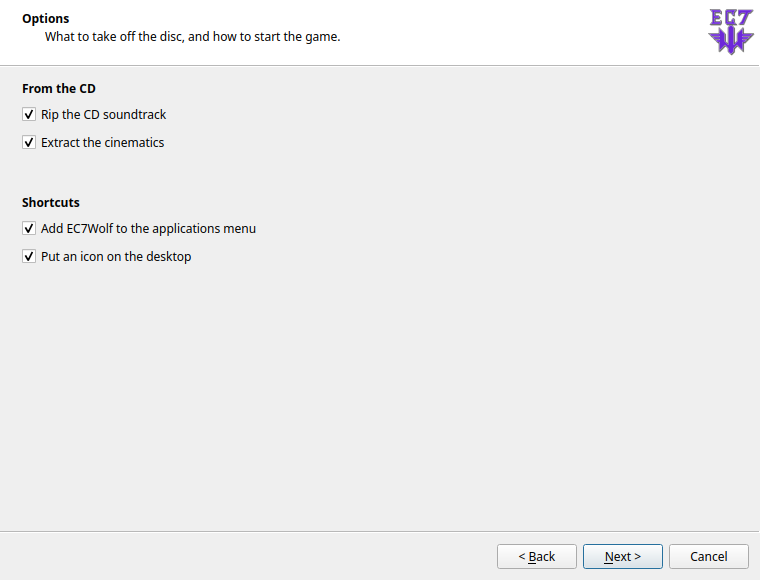
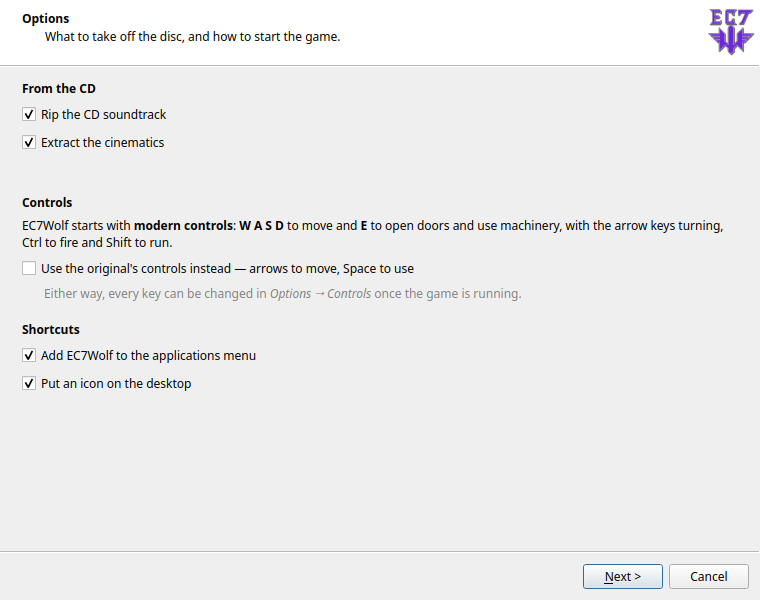
Say the controls are modern, offer the original's, and stop the console flashing
Two things asked for after using it.

FFmpeg was opening a console window per CD track -- eight black boxes flashing
across the screen in front of a wizard trying to look composed. On Windows
every subprocess a windowed program starts gets its own console unless told
otherwise, and the installer starts a great many: FFmpeg, CMake, the compiler,
meson, cscript, and cmd.exe for Visual Studio's environment. CREATE_NO_WINDOW
is the whole fix; ec7install.proc collects it, because it has to be passed at
every call site to be worth anything and one missed call is one flash. All
sixteen now pass it. proc.on_windows() deliberately asks the real platform
rather than identity.is_windows(), which the gates force to "windows" while
running on Linux, where creationflags does not exist.

And the controls. EC7Wolf defaults to WASD and E, which is what a shooter does
now and is not what Corridor 7 did in 1994 -- so someone coming back to it
presses the up arrow, nothing happens, and concludes the port is broken. The
Options page now states the scheme it is about to set up and offers the
original's as a tick-box; the summary states it again before anything is
written, and the finish page states it once more before they play. --classic-
controls does the same from a terminal.

Choosing it writes a config with those bindings into the staging tree, so that
carry_over -- which brings an existing config forward on a reinstall -- leaves
[…]

diff --git a/installer/ec7install_gui/pages.py b/installer/ec7install_gui/pages.py
@@ -52,6 +52,7 @@ class State:
         self.destination = install.default_destination()
         self.with_music = True
         self.with_video = True
+        self.classic_controls = False
         self.menu_shortcut = True
         self.desktop_shortcut = True
         self.jobs = os.cpu_count() or 2
@@ -811,6 +812,24 @@ class OptionsPage(QWizardPage):
         layout.addWidget(self.contentNote)
 
         layout.addSpacing(12)
+        layout.addWidget(QLabel("<b>Controls</b>"))
+        # Said plainly and before the fact, because the surprise is silent:
+        # someone who played this in 1994 presses the up arrow, nothing moves,
+        # and concludes the port is broken rather than that the defaults
+        # changed underneath them in the intervening thirty years.
+        layout.addWidget(body(
+            "EC7Wolf starts with <b>modern controls</b>: <b>W A S D</b> to "
+            "move and <b>E</b> to open doors and use machinery, with the "
+            "arrow keys turning, Ctrl to fire and Shift to run."))
+        self.classic = QCheckBox(
+            "Use the original's controls instead — arrows to move, Space to use")
+        layout.addWidget(self.classic)
+        self.controlsNote = body("")
+        self.controlsNote.setContentsMargins(22, 0, 0, 0)
+        layout.addWidget(self.controlsNote)
+        self.classic.toggled.connect(self._changed)
+
+        layout.addSpacing(12)
         layout.addWidget(QLabel("<b>Shortcuts</b>"))
         self.menu = QCheckBox("Add EC7Wolf to the applications menu")
         self.desktop = QCheckBox("Put an icon on the desktop")
@@ -831,10 +850,11 @@ class OptionsPage(QWizardPage):
         # state read half way through this would see values it just clobbered.
         wanted = (has_music and self.state.with_music,
                   has_video and self.state.with_video,
+                  self.state.classic_controls,
                   self.state.menu_shortcut, self.state.desktop_shortcut)
 
-        for box, value in zip((self.music, self.video, self.menu, self.desktop),
-                              wanted):
+        for box, value in zip((self.music, self.video, self.classic,
+                               self.menu, self.desktop), wanted):
             box.blockSignals(True)
             box.setChecked(value)
             box.blockSignals(False)
@@ -857,6 +877,10 @@ class OptionsPage(QWizardPage):
         self._changed()
 
     def _changed(self, *_) -> None:
+        self.state.classic_controls = self.classic.isChecked()
+        self.controlsNote.setText(
+            "<span style='color:gray;'>Either way, every key can be changed in "
+            "<i>Options &#8594; Controls</i> once the game is running.</span>")
         self.state.with_music = self.music.isChecked() and self.music.isEnabled()
         self.state.with_video = self.video.isChecked() and self.video.isEnabled()
         self.state.menu_shortcut = self.menu.isChecked()
@@ -941,6 +965,9 @@ class SummaryPage(QWizardPage):
         shortcuts = [name for name, on in
                      (("applications menu", state.menu_shortcut),
                       ("desktop", state.desktop_shortcut)) if on]
+        row("Controls", "the original's &#8212; arrows to move, Space to use"
+                        if state.classic_controls else
+                        "modern &#8212; W A S D to move, E to use")
         row("Shortcuts", ", ".join(shortcuts) if shortcuts else "none")
         row("Log", str(state.log_path) if state.log_path else "&#8211;")
 
@@ -1131,6 +1158,14 @@ class FinishPage(QWizardPage):
                          "folder. Configuration and saved games stay inside "
                          "the install, so nothing else on the system is "
                          "touched.</p>")
+            parts.append(
+                "<p><b>Controls:</b> " +
+                ("the original's &#8212; arrow keys move, <b>Space</b> opens "
+                 "doors and uses machinery."
+                 if state.classic_controls else
+                 "<b>W A S D</b> to move and <b>E</b> to open doors and use "
+                 "machinery. The arrow keys turn.") +
+                " Change any of them in <i>Options &#8594; Controls</i>.</p>")
             parts.append(
                 f"<p style='color:{colour['dim']};'>To remove it later, run "
                 f"<tt>uninstall.sh</tt> in that folder; it takes the menu "

diff --git a/installer/ec7install/controls.py b/installer/ec7install/controls.py
@@ -1,0 +1,96 @@
+"""Which keys the game starts with.
+
+EC7Wolf's defaults are the modern ones -- WASD to move, E to use -- which is
+what almost everyone expects from a first-person shooter now and is not what
+Corridor 7 shipped with in 1994. Someone coming back to the game after thirty
+years reaches for the arrow keys and the space bar, finds neither works, and
+concludes something is broken.
+
+So the installer says which scheme it is about to set up, and offers the other
+one. This writes a configuration file with the original's bindings; the engine
+fills in everything else from its own defaults the first time it runs, because
+a setting that is absent from the file is simply created.
+
+The values are SDL 1.2 keysyms, which is what the engine's configuration
+format stores -- read out of a config the engine itself wrote, not looked up in
+a table somewhere and hoped. tools/test_installer_controls.sh checks that the
+engine still agrees.
+"""
+
+from __future__ import annotations
+
+from pathlib import Path
+
+CONFIG_NAME = "ec7wolf.cfg"
+
+# What the engine does if nobody says otherwise.
+MODERN = {
+    "Keyboard_Forward": (119, "W"),
+    "Keyboard_Backward": (115, "S"),
+    "Keyboard_Strafe_Left": (97, "A"),
+    "Keyboard_Strafe_Right": (100, "D"),
+    "Keyboard_Turn_Left": (276, "Left arrow"),
+    "Keyboard_Turn_Right": (275, "Right arrow"),
+    "Keyboard_Use": (101, "E"),
+    "Keyboard_Attack": (306, "Ctrl"),
+    "Keyboard_Strafe": (308, "Alt"),
+    "Keyboard_Run": (304, "Shift"),
+}
+
+# What Corridor 7 shipped with. Turn, attack, strafe and run are already these
+# values; only movement and use actually move.
+CLASSIC = {
+    "Keyboard_Forward": (273, "Up arrow"),
+    "Keyboard_Backward": (274, "Down arrow"),
+    "Keyboard_Turn_Left": (276, "Left arrow"),
+    "Keyboard_Turn_Right": (275, "Right arrow"),
+    "Keyboard_Use": (32, "Space"),
+    "Keyboard_Attack": (306, "Ctrl"),
+    "Keyboard_Strafe": (308, "Alt"),
+    "Keyboard_Run": (304, "Shift"),
+    # A and D are left on strafe. The original had no key for it -- you held
+    # Alt and turned -- but adding one takes nothing away, and removing a
+    # binding that conflicts with nothing would only make the scheme worse.
+    "Keyboard_Strafe_Left": (97, "A"),
+    "Keyboard_Strafe_Right": (100, "D"),
+}
+
+
+def describe(scheme: dict) -> str:
+    """One line per binding, for a page or a terminal."""
+    order = ("Keyboard_Forward", "Keyboard_Backward", "Keyboard_Turn_Left",
+             "Keyboard_Turn_Right", "Keyboard_Strafe_Left",
+             "Keyboard_Strafe_Right", "Keyboard_Use", "Keyboard_Attack",
+             "Keyboard_Run", "Keyboard_Strafe")
+    pretty = {"Keyboard_Forward": "Move forward",
+              "Keyboard_Backward": "Move back",
+              "Keyboard_Turn_Left": "Turn left",
+              "Keyboard_Turn_Right": "Turn right",
+              "Keyboard_Strafe_Left": "Sidestep left",
+              "Keyboard_Strafe_Right": "Sidestep right",
+              "Keyboard_Use": "Open / use",
+              "Keyboard_Attack": "Fire",
+              "Keyboard_Run": "Run",
+              "Keyboard_Strafe": "Sidestep (held)"}
+    return "\n".join(f"{pretty[key]}: {scheme[key][1]}"
+                     for key in order if key in scheme)
+
+
+def write_config(destination: Path, scheme: dict = CLASSIC) -> Path:
+    """Write a configuration holding just these bindings.
+
+    Everything else is left out on purpose. The engine creates any setting the
+    file does not have, so a short file means "these keys, and your usual
+    defaults for the rest" -- and it stays correct when the engine gains a
+    setting this installer has never heard of.
+    """
+    path = Path(destination) / CONFIG_NAME
+    lines = [
+        "// Written by the EC7Wolf installer: the original's control scheme.",
+        "// Everything not listed here uses the engine's own default, and any",
+        "// of it can be changed in Options -> Controls.",
+        "",
+    ]
+    lines += [f"{key} = {value};" for key, (value, _name) in sorted(scheme.items())]
+    path.write_text("\n".join(lines) + "\n")
+    return path

diff --git a/installer/ec7install/shortcuts.py b/installer/ec7install/shortcuts.py
@@ -14,6 +14,7 @@ import subprocess
 from pathlib import Path
 
 from . import windows
+from . import proc
 from .identity import (APP_COMMENT, APP_ID, APP_NAME, ENGINE_BINARY,
                        is_windows)
 from .progress import Reporter
@@ -158,7 +159,7 @@ def install_icon(repo_root: Path, reporter: Reporter) -> tuple[str, list[Path]]:
     # harmless where it is not needed and invisible where it is.
     if shutil.which("gtk-update-icon-cache"):
         subprocess.run(["gtk-update-icon-cache", "-q", "-t", "-f", str(icons)],
-                       capture_output=True)
+                       capture_output=True, **proc.quiet())
     return (APP_ID, written)
 
 
@@ -189,7 +190,7 @@ def _create_linux(destination: Path, launcher: Path, repo_root: Path,
         reporter.detail(f"menu entry -> {path}")
         if shutil.which("update-desktop-database"):
             subprocess.run(["update-desktop-database", str(applications)],
-                           capture_output=True)
+                           capture_output=True, **proc.quiet())
 
     if desktop:
         desktop_dir = _desktop_directory()
@@ -204,7 +205,7 @@ def _create_linux(destination: Path, launcher: Path, repo_root: Path,
                 if shutil.which("gio"):
                     subprocess.run(
                         ["gio", "set", str(path), "metadata::trusted", "true"],
-                        capture_output=True, timeout=10)
+                        capture_output=True, timeout=10, **proc.quiet())
             except Exception:
                 pass
             created.append(path)
@@ -220,7 +221,8 @@ def _desktop_directory() -> Path | None:
     if shutil.which("xdg-user-dir"):
         try:
             out = subprocess.run(["xdg-user-dir", "DESKTOP"],
-                                 capture_output=True, text=True, timeout=10)
+                                 capture_output=True, text=True, timeout=10,
+                                 **proc.quiet())
             candidate = Path(out.stdout.strip())
             # xdg-user-dir answers with $HOME when it has no Desktop configured,
             # and scattering a .desktop file into the home directory is not what

diff --git a/installer/ec7install/plan.py b/installer/ec7install/plan.py
@@ -11,7 +11,7 @@ from __future__ import annotations
 import shutil
 from pathlib import Path
 
-from . import audio, build, install, shortcuts, verify, windows
+from . import audio, build, controls, install, shortcuts, verify, windows
 from . import source as source_code
 from .progress import Cancelled, Reporter
 
@@ -60,6 +60,7 @@ class InstallPlan:
     def __init__(self, repo_root: Path, source, destination: Path,
                  with_music: bool = True, with_video: bool = True,
                  menu_shortcut: bool = True, desktop_shortcut: bool = True,
+                 classic_controls: bool = False,
                  build_dir: Path | None = None, engine: build.Engine | None = None,
                  jobs: int | None = None):
         self.repo_root = Path(repo_root)
@@ -69,6 +70,7 @@ class InstallPlan:
         self.with_video = with_video
         self.menu_shortcut = menu_shortcut
         self.desktop_shortcut = desktop_shortcut
+        self.classic_controls = classic_controls
         self.build_dir = Path(build_dir) if build_dir else \
             self.destination.parent / ".ec7wolf-build"
         # Encoded music, kept only while it is worth keeping: a failed or
@@ -216,6 +218,17 @@ class InstallPlan:
                 (staging.path / engine.executable.name).chmod(0o755)
             launcher_name = install.write_launcher(staging.path).name
             staging.note(launcher_name)
+
+            # Written into the staging tree rather than the finished install,
+            # so that Staging.carry_over -- which brings an existing config
+            # forward on a reinstall -- leaves it alone. Someone who has just
+            # asked for the original's controls means it more than their old
+            # file does.
+            if self.classic_controls:
+                controls.write_config(staging.path, controls.CLASSIC)
+                staging.note(controls.CONFIG_NAME)
+                reporter.detail("controls: the original's scheme "
+                                "(arrows, Space to use)")
             done += WEIGHTS["assemble"]
             reporter.progress(done / total)
 

diff --git a/installer/ec7install_gui/wizard.py b/installer/ec7install_gui/wizard.py
@@ -173,6 +173,7 @@ def unattended(repo_root: Path, arguments) -> int:
             with_video=not arguments.no_video,
             menu_shortcut=not arguments.no_shortcuts,
             desktop_shortcut=not arguments.no_shortcuts,
+            classic_controls=arguments.classic_controls,
             engine=engine)
         work.run(reporter)
         return 0
@@ -234,6 +235,9 @@ def main(argv: list[str] | None = None) -> int:
     parser.add_argument("--no-music", action="store_true")
     parser.add_argument("--no-video", action="store_true")
     parser.add_argument("--no-shortcuts", action="store_true")
+    parser.add_argument("--classic-controls", action="store_true",
+                        help="set up the original's controls rather than the "
+                             "modern default")
 
     # /S is what a Windows installer is expected to answer to, and a deployment
     # tool driving EC7Wolf-Setup.exe will try it before anything else.

diff --git a/installer/ec7install/install.py b/installer/ec7install/install.py
@@ -16,6 +16,7 @@ import subprocess
 import time
 from pathlib import Path
 
+from . import proc
 from .identity import (APP_NAME, UNINSTALL_KEY, WM_CLASS, host_platform,
                        is_windows)
 from .progress import Reporter
@@ -411,4 +412,4 @@ def uninstall(destination: Path, reporter: Reporter) -> None:
     if host_platform() == "linux" and shutil.which("update-desktop-database"):
         applications = Path.home() / ".local" / "share" / "applications"
         subprocess.run(["update-desktop-database", str(applications)],
-                       capture_output=True)
+                       capture_output=True, **proc.quiet())

diff --git a/installer/ec7install/build.py b/installer/ec7install/build.py
@@ -283,7 +283,8 @@ def developer_environment() -> dict | None:
          "set\r\n").encode("utf-8"))
     try:
         result = subprocess.run(["cmd", "/c", str(script)], capture_output=True,
-                                text=True, timeout=300, errors="replace")
+                                text=True, timeout=300, errors="replace",
+                                **proc.quiet())
     except (OSError, subprocess.SubprocessError):
         return None
     finally:

diff --git a/installer/ec7install/deps.py b/installer/ec7install/deps.py
@@ -221,7 +221,8 @@ def _pkg_config(name: str) -> bool:
     if not pkg:
         return False
     try:
-        return subprocess.run([pkg, "--exists", name], timeout=15).returncode == 0
+        return subprocess.run([pkg, "--exists", name], timeout=15,
+                              **proc.quiet()).returncode == 0
     except Exception:
         return False
 

diff --git a/README.md b/README.md
@@ -21,6 +21,16 @@
 > target of this fork and are not guaranteed to behave correctly.** If you want
 > a general-purpose Wolf3D port, use [upstream ECWolf](https://maniacsvault.net/ecwolf/).
 
+> ### 🎮 The controls are modern by default
+>
+> **W A S D** to move · **E** to open doors and use machinery · arrow keys turn
+> · **Ctrl** fires · **Shift** runs
+>
+> This is *not* what Corridor 7 shipped with in 1994. If you want the original
+> scheme — **arrow keys to move, Space to open** — the installer offers it as a
+> tick-box, or change any key in *Options → Controls*. See
+> [Controls](#controls) below.
+
 ---
 
 ## What it looks like
@@ -459,8 +469,10 @@ you cannot write to.</td></tr>
 
 <tr><td><img src="docs/images/installer-options.png" alt="Options page"></td>
 <td><b>Options.</b> Whether to rip the CD soundtrack and extract the cinematics —
-each is offered only if your source actually has it — and whether to add a menu
-entry and a desktop icon.</td></tr>
+each is offered only if your source actually has it — whether to add a menu
+entry and a desktop icon, and <b>which control scheme to set up</b>. It states
+plainly that the defaults are modern (W A S D, E to use) and offers the
+original's arrows-and-Space scheme as a tick-box.</td></tr>
 
 <tr><td><img src="docs/images/installer-summary.png" alt="Summary page"></td>
 <td><b>Ready to install.</b> Everything that is about to happen, on one page.
@@ -759,17 +771,36 @@ it. On Windows it also appears in *Settings → Apps* like any other program.
 Every install writes `ec7wolf-install.log` beside the install folder, whatever
 happens. It has the full detail, including the compiler's own messages.
 
-### Handy controls (matching the original)
+### Controls
+
+**The defaults are modern, not the original's.** This catches people out, so it
+is worth saying twice: out of the box you move with **W A S D** and open things
+with **E**. Corridor 7 in 1994 moved with the **arrow keys** and opened things
+with **Space**.
+
+| Action | Modern (default) | The original's |
+| --- | --- | --- |
+| Move forward / back | **W** / **S** | **Up** / **Down** arrow |
+| Turn left / right | Left / Right arrow | Left / Right arrow |
+| Sidestep | **A** / **D** | hold **Alt** and turn (A / D also work) |
+| **Open, use, push** | **E** | **Space** |
+| Fire | Ctrl, or the mouse | Ctrl |
+| Run | Shift | Shift |
+
+**To get the original's scheme:** tick *Use the original's controls* on the
+installer's Options page, or run `ec7wolf-install --classic-controls`. Either
+writes a configuration with those bindings before you first start the game.
+Nothing is locked in — every key can be rebound in *Options → Controls*.
+
+Everything else is the same either way:
 
 | Input | Action |
 | --- | --- |
-| Arrows / WASD + mouse | Move & turn |
-| Ctrl / mouse | Fire |
-| Space | Open / use doors, computers, dispensers, chambers, pushwalls |
 | 1–8 | Select weapon |
 | M | Plant proximity mine |
 | **Enter** | **Cycle visor: Normal → Night Vision → Infrared** |
-| Tab | Toggle proximity map |
+| Tab | Corridor 7's inset proximity map |
+| F1 | Full-screen automap |
 | Esc | Main menu |
 
 ---
